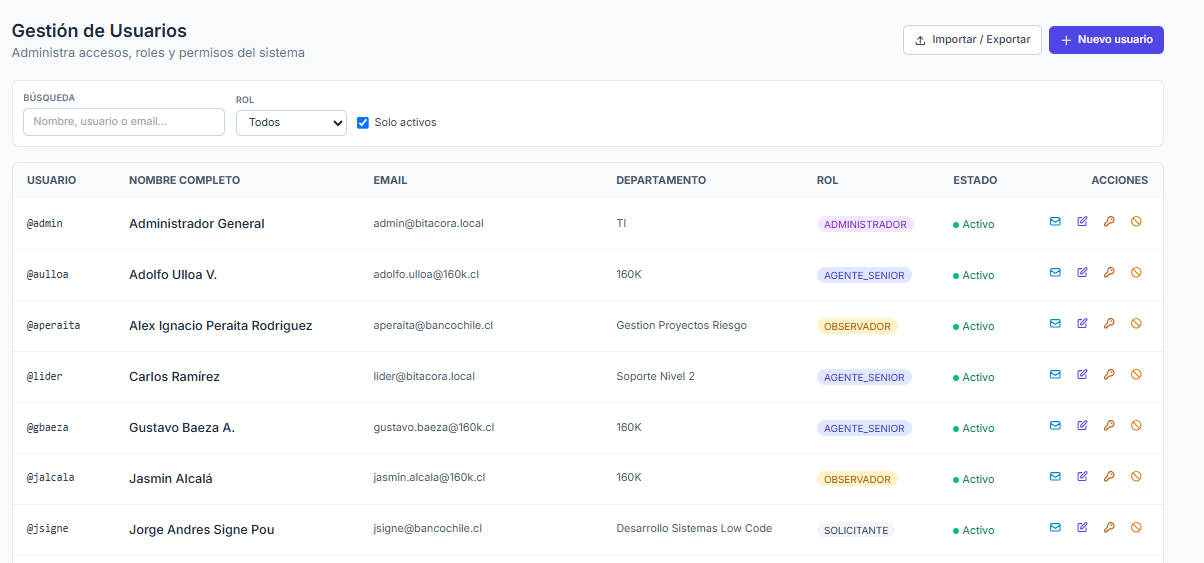
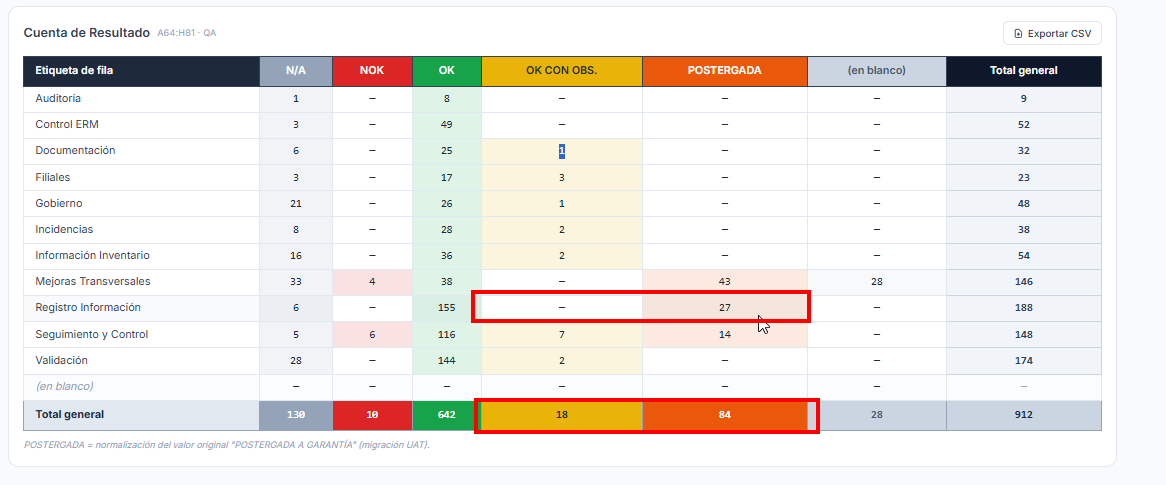
Message 442462756581539 - 1789578227

diff --git a/Bitacora-GRM_v2/app/templates/dashboard/index.html b/Bitacora-GRM_v2/app/templates/dashboard/index.html
@@ -279,6 +279,7 @@ const CUENTA_RESULTADO_COLORES = {
   "OK":          { bg: '#16a34a', text: '#ffffff', cellText: '#1f2937' },  // green
   "OK CON OBS.": { bg: '#eab308', text: '#1f2937', cellText: '#1f2937' },  // yellow
   "POSTERGADA":  { bg: '#ea580c', text: '#ffffff', cellText: '#1f2937' },  // orange
+  "DESESTIMADA": { bg: '#7c3aed', text: '#ffffff', cellText: '#1f2937' },  // purple
   "(en blanco)": { bg: '#cbd5e1', text: '#475569', cellText: '#1f2937' },  // light gray
 };
 

diff --git a/Bitacora-GRM_v2/app/api/v1/metricas.py b/Bitacora-GRM_v2/app/api/v1/metricas.py
@@ -20,14 +20,36 @@ from app.models.automacion import ReglaAutomatizacion
 
 # Columnas esperadas para la tabla pivote "Cuenta de Resultado"
 # Réplica del rango A64:H81 de la hoja REPORTE del Excel UAT.
+#
+# NOTA: Incluye TODOS los valores del LOV de ``resultado_pruebas``
+# (N/A, NOK, OK, OK CON OBS., POSTERGADA, DESESTIMADA) más la
+# categoría derivada "(en blanco)" para valores NULL/vacíos. Si
+# el LOV crece en el futuro, basta con agregar el nuevo valor aquí
+# y darlo de alta en ``sql_columnas`` más abajo para que el pivot
+# lo refleje sin perder tickets.
 _RESULTADOS_PIVOTE = (
     "N/A",
     "NOK",
     "OK",
     "OK CON OBS.",
     "POSTERGADA",
+    "DESESTIMADA",
     "",  # (en blanco) — sin resultado
 )
+
+# Normalización de etiquetas de módulo para la tabla pivote.
+# Mapea variantes conocidas (ej: heredadas de la migración UAT) a
+# su forma canónica. Si en el futuro aparecen nuevas variantes, se
+# agregan aquí para que el pivot muestre una fila única y consistente.
+MODULO_ALIAS = {
+    "Registro Información": "Registro de Información",
+}
+
+def _normalizar_modulo(modulo: str) -> str:
+    """Devuelve la etiqueta canónica del módulo para mostrar en el pivot."""
+    if not modulo or not modulo.strip():
+        return "(en blanco)"
+    return MODULO_ALIAS.get(modulo, modulo)
 
 logger = logging.getLogger(__name__)
 router = APIRouter(prefix="/metricas", tags=["Métricas"])
@@ -243,18 +265,24 @@ def cuenta_resultado(
 
     # Columnas dinámicas: usamos la misma definición que el front (incluye
     # la columna "(en blanco)" que agrupa NULL/vacío en resultado_pruebas).
+    # DESESTIMADA se incluye explícitamente para que los tickets con ese
+    # resultado_pruebas NO queden excluidos del pivot.
     columnas_front = [
-        "N/A", "NOK", "OK", "OK CON OBS.", "POSTERGADA", "(en blanco)",
+        "N/A", "NOK", "OK", "OK CON OBS.", "POSTERGADA", "DESESTIMADA",
+        "(en blanco)",
     ]
 
     # Mapeo: nombre en front → valor literal en tickets.resultado_pruebas
     # La columna "(en blanco)" se calcula como "IS NULL OR = ''".
+    # Si se agrega un nuevo valor al LOV, basta con agregarlo también aquí
+    # y en ``columnas_front`` para que el pivot lo refleje.
     sql_columnas = [
         ("N/A",          Ticket.resultado_pruebas == "N/A"),
         ("NOK",          Ticket.resultado_pruebas == "NOK"),
         ("OK",           Ticket.resultado_pruebas == "OK"),
         ("OK CON OBS.",  Ticket.resultado_pruebas == "OK CON OBS."),
         ("POSTERGADA",   Ticket.resultado_pruebas == "POSTERGADA"),
+        ("DESESTIMADA",  Ticket.resultado_pruebas == "DESESTIMADA"),
         ("(en blanco)",  Ticket.resultado_pruebas.is_(None) | (Ticket.resultado_pruebas == "")),
     ]
 
@@ -281,30 +309,43 @@ def cuenta_resultado(
         .all()
     )
 
-    # Normalizar filas: módulo NULL o vacío → "(en blanco)".
-    filas = []
+    # Normalizar filas: módulo NULL o vacío → "(en blanco)". También
+    # agrupamos variantes conocidas (ej: "Registro Información" sin
+    # "de" → "Registro de Información") bajo la misma etiqueta canónica
+    # para que el pivot no muestre filas duplicadas por motivos de
+    # nomenclatura heredada de la migración UAT.
+    filas = {}
     totales_por_columna = {c: 0 for c in columnas_front}
     total_general = 0
 
     for r in rows:
-        modulo = r.modulo if (r.modulo and r.modulo.strip()) else "(en blanco)"
+        modulo_canonico = _normalizar_modulo(r.modulo)
         valores = {}
         fila_total = 0
         for nombre_col, _ in sql_columnas:
             v = int(getattr(r, nombre_col, 0) or 0)
             valores[nombre_col] = v
-            totales_por_columna[nombre_col] += v
             fila_total += v
-        filas.append({
-            "modulo": modulo,
-            "valores": valores,
-            "total": fila_total,
-        })
+        # Acumular en la fila canónica (puede que ya exista si había
+        # múltiples variantes del mismo módulo).
+        if modulo_canonico in filas:
+            existente = filas[modulo_canonico]
+            for col, v in valores.items():
+                existente["valores"][col] = existente["valores"].get(col, 0) + v
+            existente["total"] += fila_total
+        else:
+            filas[modulo_canonico] = {
+                "modulo": modulo_canonico,
+                "valores": valores,
+                "total": fila_total,
+            }
+        for col, v in valores.items():
+            totales_por_columna[col] += v
         total_general += fila_total
 
-    # Ordenar filas con "(en blanco)" al final para coincidir con el Excel.
+    # Convertir dict a lista y ordenar con "(en blanco)" al final.
     filas_ordenadas = sorted(
-        filas,
+        filas.values(),
         key=lambda f: (f["modulo"] == "(en blanco)", f["modulo"]),
     )
 

diff --git a/Bitacora-GRM_v2/app/templates/tickets/detalle_modal.py b/Bitacora-GRM_v2/app/templates/tickets/detalle_modal.py
@@ -211,7 +211,22 @@ DETALLE_TEMPLATE = Template(r"""
             </h4>
             <div class="grid grid-cols-2 gap-3 text-xs">
 
-              {# Módulo (LOV fijo) #}
+              {# Módulo (LOV fijo).
+                 IMPORTANTE: Si el ticket ya tiene un valor de módulo que NO está
+                 en la lista canónica (ej: "Registro Información" sin "de",
+                 heredado de la migración UAT), agregamos una opción fallback
+                 seleccionada para preservar el valor original. Sin esta opción
+                 fallback, el <select> enviaría value="" (porque ninguna opción
+                 coincide) y el backend borraría el módulo, haciendo que el ticket
+                 desaparezca de la fila "Registro Información" y aparezca en la fila
+                 "(en blanco)" del pivot "Cuenta de Resultado" del Dashboard. #}
+              {% set _modulos_canonicos = (
+                'Control ERM', 'Gobierno', 'Incidencias', 'Validación',
+                'Auditoria', 'Filiales', 'Información Inventario',
+                'Registro de Información', 'Documentación',
+                'Mejoras Transversales', 'Seguimiento y Control',
+              ) %}
+              {% set _modulo_es_canonico = ticket.modulo in _modulos_canonicos %}
               <div>
                 <span class="block text-[11px] font-semibold uppercase tracking-wide text-slate-500 mb-0.5">Módulo</span>
                 <select name="valor_modulo"
@@ -229,7 +244,17 @@ DETALLE_TEMPLATE = Template(r"""
                   <option value="Documentación" {% if ticket.modulo == 'Documentación' %}selected{% endif %}>Documentación</option>
                   <option value="Mejoras Transversales" {% if ticket.modulo == 'Mejoras Transversales' %}selected{% endif %}>Mejoras Transversales</option>
                   <option value="Seguimiento y Control" {% if ticket.modulo == 'Seguimiento y Control' %}selected{% endif %}>Seguimiento y Control</option>
+                  {# Fallback: si el módulo actual no está en la lista canónica, lo
+                     agregamos como opción seleccionada para preservar el valor. #}
+                  {% if ticket.modulo and not _modulo_es_canonico %}
+                    <option value="{{ ticket.modulo }}" selected>{{ ticket.modulo }} (valor heredado)</option>
+                  {% endif %}
                 </select>
+                {% if ticket.modulo and not _modulo_es_canonico %}
+                  <p class="text-[10px] text-amber-600 mt-0.5 italic">
+                    Valor heredado de la migración UAT. Para normalizar, selecciona la opción canónica correspondiente.
+                  </p>
+                {% endif %}
               </div>
 
               {# Ambiente (LOV cerrado QA / PRODUCCION). Reemplaza al antiguo campo "Categoría". #}

diff --git a/Bitacora-GRM_v2/app/services/ticket_service.py b/Bitacora-GRM_v2/app/services/ticket_service.py
@@ -552,6 +552,14 @@ class TicketService:
         "ambiente", "item",
     }
 
+    # Subset de CAMPOS_EDITABLES que son LOVs y por tanto pueden llegar vacíos
+    # accidentalmente desde el frontend (ej: un <select> que no tiene la opción
+    # coincidente con el valor heredado). Ver defensa en ``actualizar_campos``.
+    LOV_NULLABLE = frozenset({
+        "modulo", "vista", "hu_o_caso_prueba", "nota_observacion",
+        "resultado_pruebas", "ambiente", "item",
+    })
+
     def actualizar_campos(
         self,
         ticket_id: int,
@@ -655,7 +663,30 @@ class TicketService:
                         ticket.asignado_id = nuevo_id
                         nuevo_legible = nuevo_id
                 else:
-                    # Campos simples (titulo, descripcion)
+                    # Campos simples (titulo, descripcion, modulo, vista,
+                    # hu_o_caso_prueba, nota_observacion, resultado_pruebas,
+                    # ambiente, item).
+                    #
+                    # DEFENSA CRÍTICA contra pérdida de datos: para campos
+                    # LOV nullable, si el nuevo valor llega vacío/None y el
+                    # valor actual es NO vacío, IGNORAR el cambio. Esto evita
+                    # que un <select> que no encuentra coincidencia con el
+                    # valor heredado (ej: "Registro Información" sin "de")
+                    # envíe value="" y haga que el ticket desaparezca de su
+                    # fila original en el pivot "Cuenta de Resultado" del
+                    # Dashboard (regresión detectada el 2026-09-16). El
+                    # usuario sigue pudiendo limpiar campos explícitamente
+                    # mediante otros mecanismos; este endpoint sólo aplica
+                    # cambios INTENCIONALES (valor nuevo distinto y no vacío).
+                    if campo in LOV_NULLABLE:
+                        _valor_vacio = valor is None or (
+                            isinstance(valor, str) and valor.strip() == ""
+                        )
+                        _actual_vacio = str(anterior_raw or "").strip() == ""
+                        if _valor_vacio and not _actual_vacio:
+                            # Frontend envió vacío para un campo que ya
+                            # tenía valor: preservar (no borrar).
+                            continue
                     nuevo_legible = valor
                     if str(anterior_raw or "") == str(nuevo_legible or ""):
                         continue  # sin cambio
